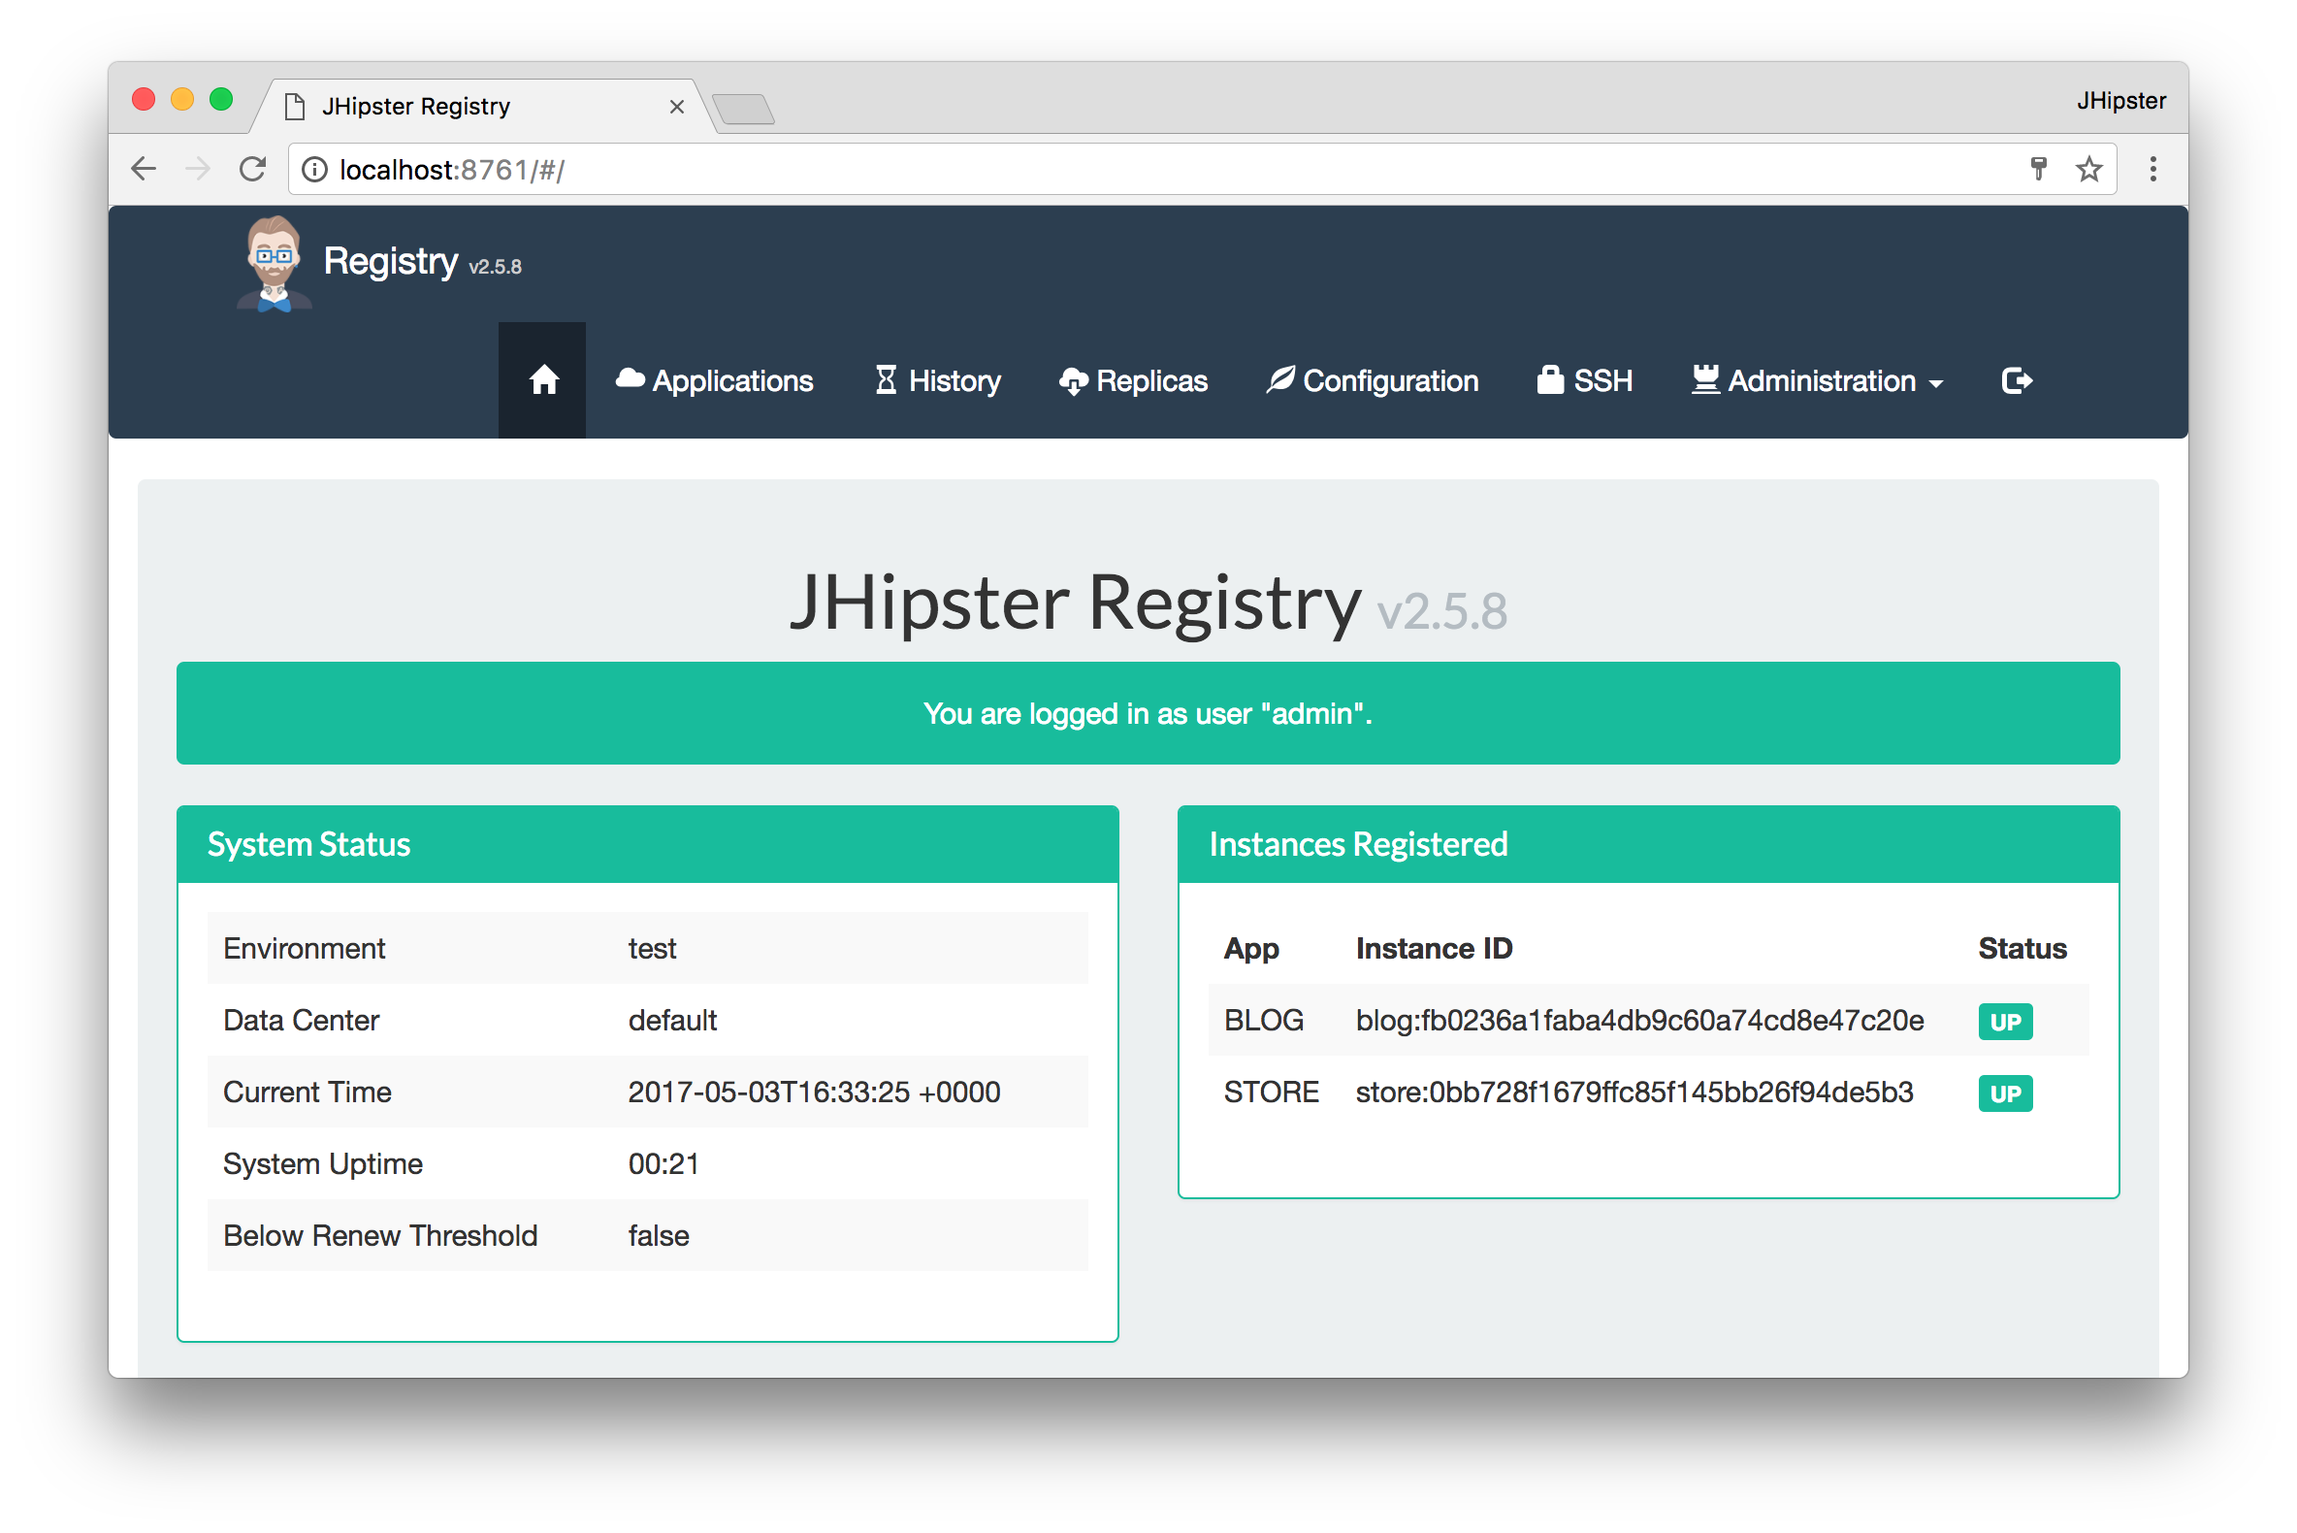
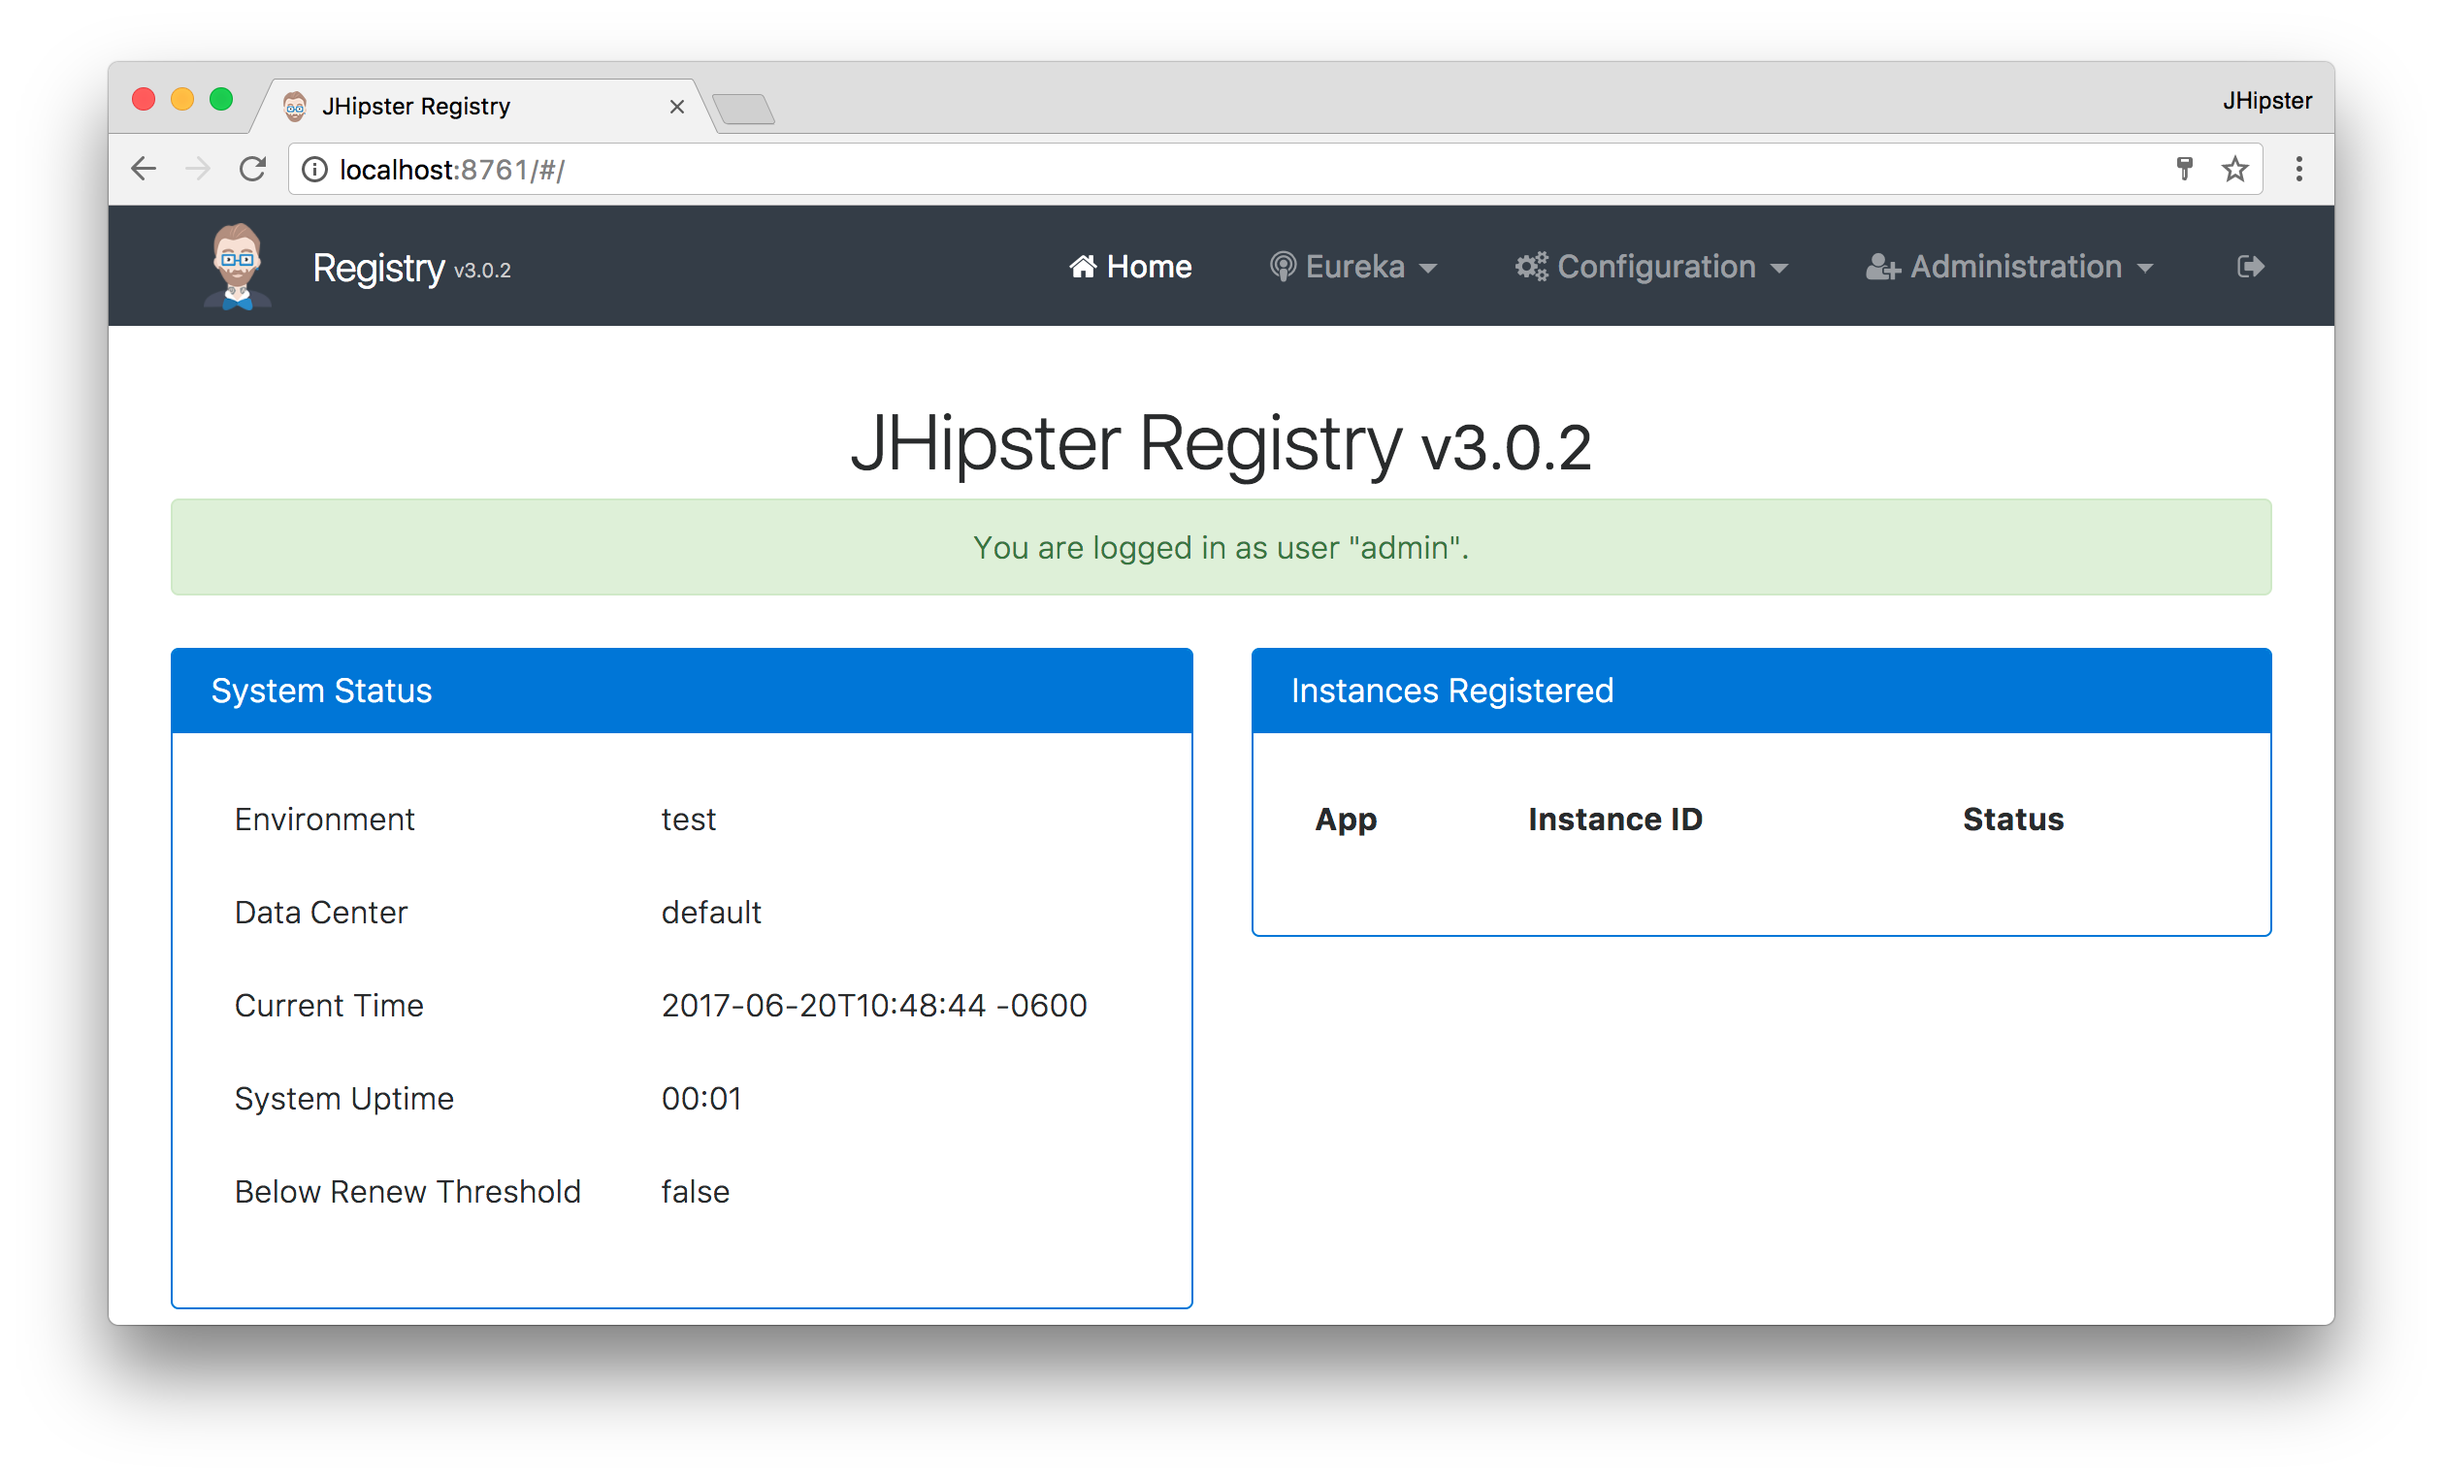
Add more info on JHipster Registry and known issues

diff --git a/blog/src/main/java/org/jhipster/blog/web/rest/EntryResource.java b/blog/src/main/java/org/jhipster/blog/web/rest/EntryResource.java
@@ -1,15 +1,14 @@
 package org.jhipster.blog.web.rest;
 
 import com.codahale.metrics.annotation.Timed;
+import io.github.jhipster.web.util.ResponseUtil;
+import io.swagger.annotations.ApiParam;
 import org.jhipster.blog.domain.Entry;
-
 import org.jhipster.blog.repository.EntryRepository;
 import org.jhipster.blog.repository.search.EntrySearchRepository;
 import org.jhipster.blog.security.SecurityUtils;
 import org.jhipster.blog.web.rest.util.HeaderUtil;
 import org.jhipster.blog.web.rest.util.PaginationUtil;
-import io.swagger.annotations.ApiParam;
-import io.github.jhipster.web.util.ResponseUtil;
 import org.slf4j.Logger;
 import org.slf4j.LoggerFactory;
 import org.springframework.data.domain.Page;
@@ -19,22 +18,21 @@ import org.springframework.http.HttpStatus;
 import org.springframework.http.ResponseEntity;
 import org.springframework.web.bind.annotation.*;
 
+import javax.transaction.Transactional;
 import javax.validation.Valid;
 import java.net.URI;
 import java.net.URISyntaxException;
-
 import java.util.List;
 import java.util.Optional;
-import java.util.stream.Collectors;
-import java.util.stream.StreamSupport;
 
-import static org.elasticsearch.index.query.QueryBuilders.*;
+import static org.elasticsearch.index.query.QueryBuilders.queryStringQuery;
 
 /**
  * REST controller for managing Entry.
  */
 @RestController
 @RequestMapping("/api")
+@Transactional
 public class EntryResource {
 
     private final Logger log = LoggerFactory.getLogger(EntryResource.class);

diff --git a/registry/src/main/java/io/github/jhipster/registry/config/SecurityConfiguration.java b/registry/src/main/java/io/github/jhipster/registry/config/SecurityConfiguration.java
@@ -33,10 +33,7 @@ public class SecurityConfiguration extends WebSecurityConfigurerAdapter {
         web.ignoring()
             .antMatchers(HttpMethod.OPTIONS, "/**")
             .antMatchers("/app/**/*.{js,html}")
-            .antMatchers("/bower_components/**")
-            .antMatchers("/content/**")
-            .antMatchers("/test/**")
-            .antMatchers("/h2-console/**");
+            .antMatchers("/content/**");
     }
 
     @Override
@@ -58,14 +55,13 @@ public class SecurityConfiguration extends WebSecurityConfigurerAdapter {
             .realmName("JHipster Registry")
         .and()
             .authorizeRequests()
-            .antMatchers("/**").permitAll() // cannot reconnect without this line
-            .antMatchers("/api/**").authenticated()
-            .antMatchers("/api/authenticate").permitAll()
             .antMatchers("/eureka/**").hasAuthority(AuthoritiesConstants.ADMIN)
             .antMatchers("/config/**").hasAuthority(AuthoritiesConstants.ADMIN)
-            .antMatchers("/management/health").permitAll()
+            .antMatchers("/api/authenticate").permitAll()
+            .antMatchers("/api/**").authenticated()
             .antMatchers("/management/**").hasAuthority(AuthoritiesConstants.ADMIN)
-            .anyRequest().authenticated() // always at the end
+            .antMatchers("/*").permitAll()
+            .anyRequest().authenticated()
         .and()
             .apply(securityConfigurerAdapter());
     }

diff --git a/TUTORIAL.md b/TUTORIAL.md
@@ -153,12 +153,20 @@ Run the following commands in the `jhipster-microservices-example` directory.
 
 ```bash
 git clone git@github.com:jhipster/jhipster-registry.git registry
-cd registry && ./mvnw
+cd registry && yarn && ./mvnw
 ```
 
-The [JHipster Registry](https://jhipster.github.io/microservices-architecture/#jhipster-registry) is built on Spring 
-Cloud Netflix and Spring Cloud Config. Patterns provided by Spring Cloud Netflix include Service Discovery (Eureka),  
-Circuit Breaker (Hystrix), Intelligent Routing (Zuul), and Client Side Load Balancing (Ribbon). 
+The [JHipster Registry](https://jhipster.github.io/jhipster-registry/) is built on Spring Cloud Netflix and Spring Cloud Config. 
+Patterns provided by Spring Cloud Netflix include Service Discovery (Eureka), Circuit Breaker (Hystrix), Intelligent Routing (Zuul), 
+and Client Side Load Balancing (Ribbon). 
+
+In a [previous post](/blog/2017/06/15/build-microservices-architecture-spring-boot), I showed you how you can use Eureka for 
+service discovery. JHipster Registry is a Eureka server, a Spring Cloud Config server, as well as an administration server. 
+It includes dashboards to monitor and manage your JHipster applications. 
+
+JHipster Registry starts on port 8761 by default.
+
+![JHipster Registry](static/jhipster-registry.png)
 
 In a new terminal window, navigate to `jhipster-microservices-example/blog` and run `./mvnw` to start the blog application 
 and open <http://localhost:8080> in your favorite browser. The first thing you'll notice is a dapper-looking fellow 
@@ -879,6 +887,25 @@ and run `docker login` to push your images. The images can be run from any direc
        kubectl scale --replicas=3 deployment/store
        
 Did you get everything working? If so, you rock! You've built a production-ready microservices scaffold for your application with JHipster!
+
+## Issues Found
+
+While creating this example, I ran into a few issues. 
+
+1. Alert translations not resolved in the gateway for microservice entities. The workaround is to open the `src/main/webapp/i18n/*/product.json` files and move the keys from `storeApp` to `blogApp`. See [issue #5960](https://github.com/jhipster/generator-jhipster/issues/5960) for more information.
+
+2. In production mode, new entries don't show in the list. The logs have an error like the following:
+
+    ```
+    2017-06-19 18:08:06.930 ERROR 17597 --- [ XNIO-2 task-62] o.j.b.w.rest.errors.ExceptionTranslator  : 
+    An unexpected error occured: Unable to access lob stream; nested exception is org.hibernate.HibernateException: 
+    Unable to access lob stream
+    ```
+    
+    This is a [known issue with PostgreSQL](https://github.com/hipster-labs/generator-jhipster-entity-audit/issues/32).
+    Adding `@Transactional` to the `EntryResource.java` class definition solved this problem.
+
+3. When running everything in Minikube, adding new products fails. Upgrading to JHipster Registry 3.0.2 solved this issue. See [this commit](https://github.com/oktadeveloper/jhipster-microservices-example/commit/5bed36131353aea148f5fee1cd8d3c4ed2ae00a8) in `docker/jhipster-registry.yml` and `kubernetes/registry/jhipster-registry.yml` to see how to upgrade.
 
 ## Source Code and Screencast
 
